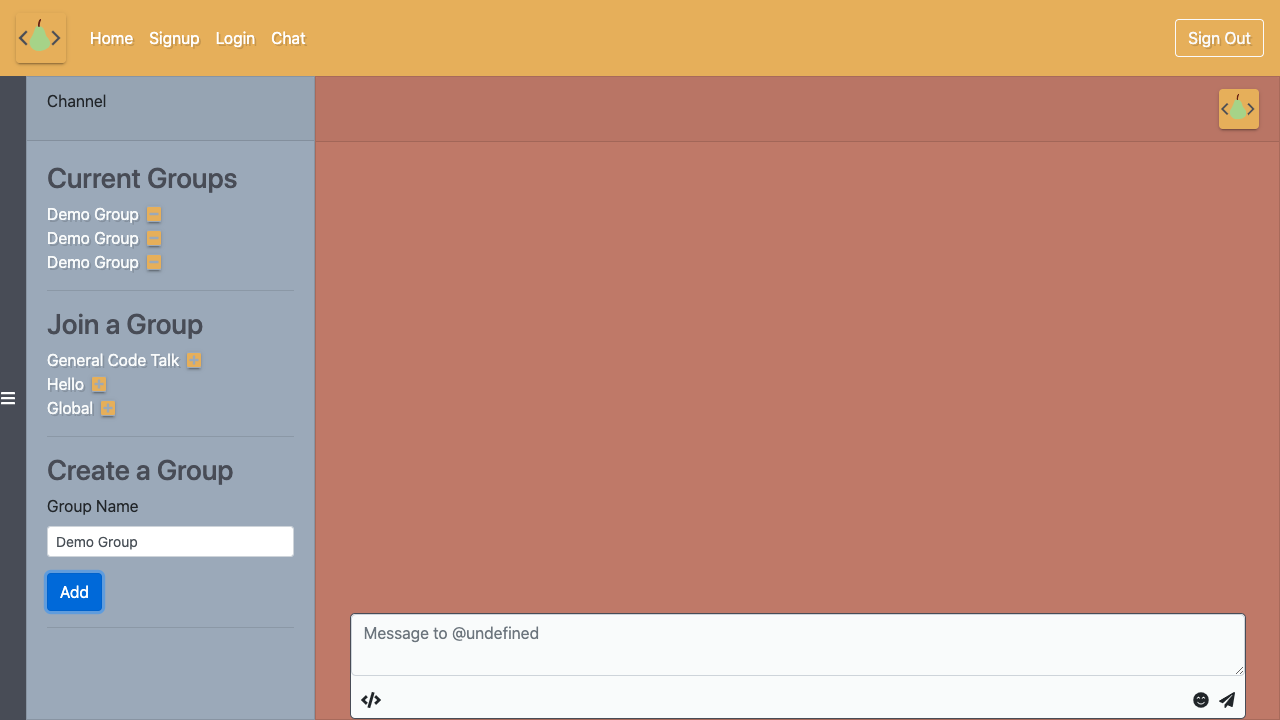
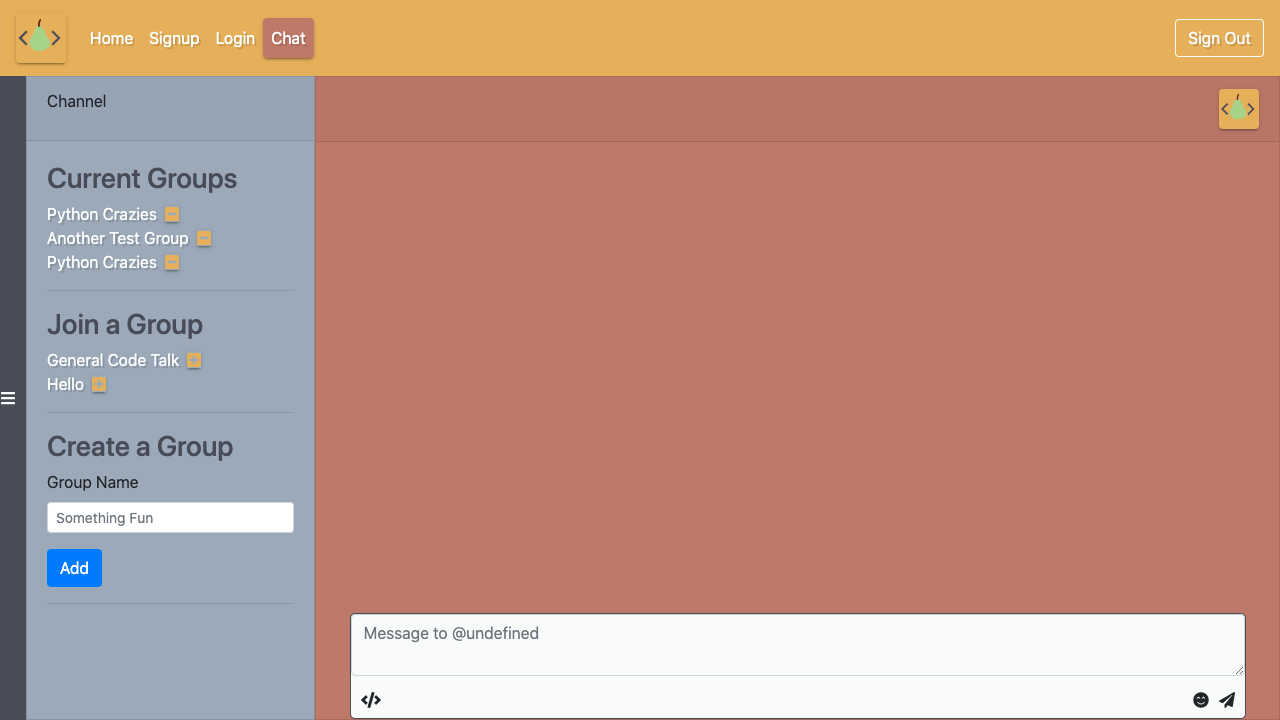
Chat Feature Tests - Creating Multiple Chat Groups

diff --git a/tests/Chat_Feature_test.js b/tests/Chat_Feature_test.js
@@ -1,6 +1,6 @@
 Feature('Chat Feature');
 
-Scenario('Login and Create A New Chat Group', ({ I }) => {
+const login = (I) => {
     I.amOnPage('/'); //opens the site
     I.see('Pair'); //Checks to see if it has loaded properly
     I.click('Login'); //Clicks the signup link
@@ -9,16 +9,32 @@ Scenario('Login and Create A New Chat Group', ({ I }) => {
     I.fillField('#formBasicEmail', 'test100@test.com'); //types in a test email 
     I.fillField('#formBasicPassword', secret('123456')); // types in a test password
     I.click('.signup-button'); // clicks the signup button in the form...should say login on this page
-    const groupName = 'Demo Group';
-    I.seeElement('.message-form'); //should take us to the chat page
-    I.wait(5);
+}
+
+Scenario('Login and Create A New Chat Group', ({ I }) => {
+    const groupNames = ['Python Crazies', 'Pete\'s Coding Crew', 'Pair questions chat', 'Misc'];
+    //addedGroup${groupInfo.name}
+    login(I);
+    I.seeElement('.message-form'); //simple check to see if we are actually on the chat page
+    I.wait(2);
     I.click('.hide-side-button') //click the side button
     I.see('Current Groups', 'h3'); //sees that the side button div is open
-    I.fillField('#newGroupForm', groupName); //adds a new chat group with the name
-    I.wait(5);
-    I.click('Add');
-    I.wait(5);
-    I.click(groupName, 'span')
-    I.fillField('.message-form', "Hello World");
+
+    //Loop to create a new group for each groupName in the groupNames array;
+    groupNames.forEach(groupName => {
+        I.fillField('#newGroupForm', groupName); //fills in form with specified name
+        I.click('Add'); //adds the group by clicking the Add button
+        I.wait(5);
+        I.click('Home');
+        I.click('Chat');
+        // I.seeElement(groupName, `.addedGroup`); //checks that the user can now see the added group
+    })
+    
+    // I.fillField('.message-form', "Hello World");
     
 });
+
+// Scenario('Click on a chat group', ({I}) => {
+//     I.amOnPage('/login');
+
+// });
